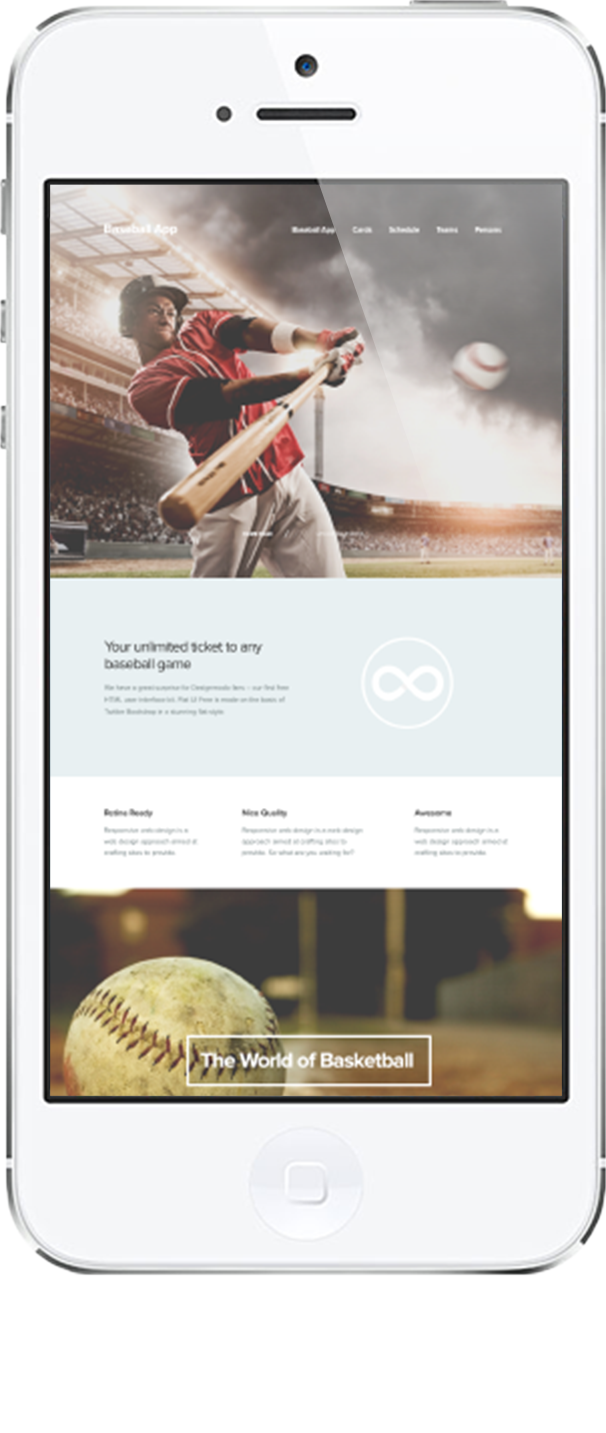
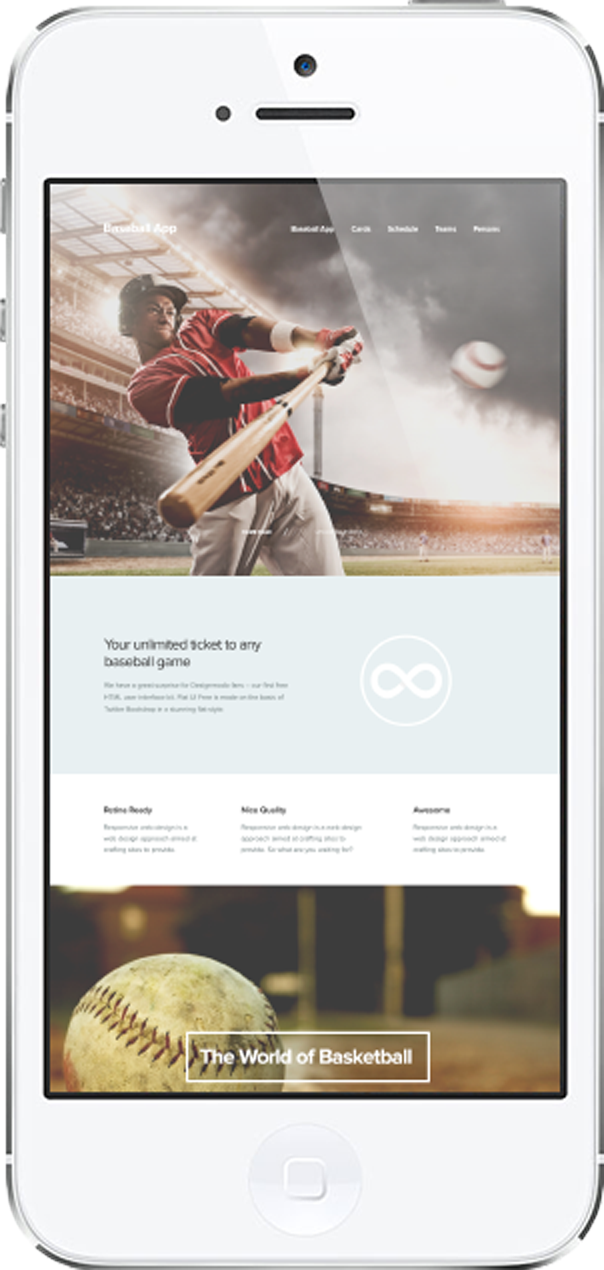
SF-288

diff --git a/manual/read/contents.html b/manual/read/contents.html
@@ -510,13 +510,13 @@ Video tutorials show you how to make a web site for your startup from design to 
                 <div id="c-10_myCarousel" class="carousel slide">
                   <div class="carousel-inner">
                     <div class="item active">
-                      <img src="../../common-files/img/content/iphone@2x.png" width="303" height="636" alt="">
+                      <img src="../../common-files/img/content/iphone@2x.png" width="302" height="635" alt="">
                     </div>
                     <div class="item">
-                      <img src="../../common-files/img/content/iphone-n@2x.png" width="303" height="636" alt="">
+                      <img src="../../common-files/img/content/iphone@2x.png" width="302" height="635" alt="">
                     </div>
                     <div class="item">
-                      <img src="../../common-files/img/content/iphone@2x.png" width="303" height="636" alt="">
+                      <img src="../../common-files/img/content/iphone@2x.png" width="302" height="635" alt="">
                     </div>
                   </div>
                   <ol class="carousel-indicators">
@@ -1728,13 +1728,13 @@ Create new elements with color swatches. Wow!
                 <div id="c-10_myCarousel" class="carousel slide">
                     <div class="carousel-inner">
                         <div class="item active">
-                            <img src="../../common-files/img/content/iphone@2x.png" width="303" height="636" alt="">
+                            <img src="../../common-files/img/content/iphone@2x.png" width="302" height="635" alt="">
                         </div>
                         <div class="item">
-                            <img src="../../common-files/img/content/iphone-n@2x.png" width="303" height="636" alt="">
+                            <img src="../../common-files/img/content/iphone@2x.png" width="302" height="635" alt="">
                         </div>
                         <div class="item">
-                            <img src="../../common-files/img/content/iphone@2x.png" width="303" height="636" alt="">
+                            <img src="../../common-files/img/content/iphone@2x.png" width="302" height="635" alt="">
                         </div>
                     </div>
                     <ol class="carousel-indicators">

diff --git a/samples/sample-02/index.html b/samples/sample-02/index.html
@@ -128,13 +128,13 @@
                             <div id="c-10_myCarousel" class="carousel slide">
                                 <div class="carousel-inner">
                                     <div class="item active">
-                                        <img src="img/iphone@2x.png" width="303" height="636" alt="" >
+                                        <img src="img/iphone@2x.png" width="302" height="635" alt="" >
                                     </div>
                                     <div class="item">
-                                        <img src="img/iphone-n@2x.png" width="303" height="636" alt="" >
+                                        <img src="img/iphone@2x.png" width="302" height="635" alt="" >
                                     </div>
                                     <div class="item">
-                                        <img src="img/iphone@2x.png" width="303" height="636" alt="" >
+                                        <img src="img/iphone@2x.png" width="302" height="635" alt="" >
                                     </div>
                                 </div>
                                 <ol class="carousel-indicators">

diff --git a/ui-kit/ui-kit-content/for-tpl/content-10.html b/ui-kit/ui-kit-content/for-tpl/content-10.html
@@ -34,13 +34,13 @@
                 <div id="c-10_myCarousel" class="carousel slide">
                     <div class="carousel-inner">
                         <div class="item active">
-                            <img src="../../common-files/img/content/iphone@2x.png" width="303" height="636" alt="">
+                            <img src="../../common-files/img/content/iphone@2x.png" width="302" height="635" alt="">
                         </div>
                         <div class="item">
-                            <img src="../../common-files/img/content/iphone-n@2x.png" width="303" height="636" alt="">
+                            <img src="../../common-files/img/content/iphone@2x.png" width="302" height="635" alt="">
                         </div>
                         <div class="item">
-                            <img src="../../common-files/img/content/iphone@2x.png" width="303" height="636" alt="">
+                            <img src="../../common-files/img/content/iphone@2x.png" width="302" height="635" alt="">
                         </div>
                     </div>
                     <ol class="carousel-indicators">
